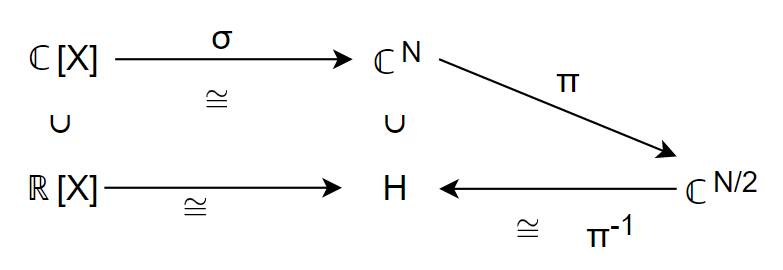
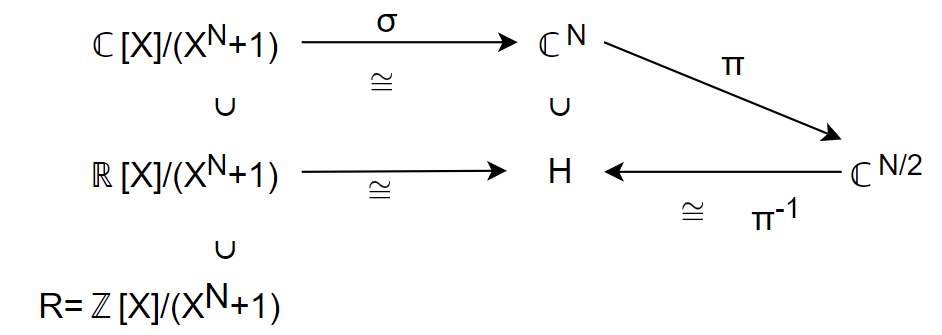
_

diff --git a/articles/ckks-encoding.md b/articles/ckks-encoding.md
@@ -1,15 +1,15 @@
 ---
-title: "完全準同型暗号CKKSその2 エンコーディングとPythonによる実装"
+title: "完全準同型暗号CKKSその2 エンコードとデコード"
 emoji: "🧮"
 type: "tech"
-topics: ["完全準同型暗号", "CKKS", "エンコーディング"]
-published: false
+topics: ["完全準同型暗号", "CKKS", "エンコード", "デコード"]
+published: true
 ---
 ## 初めに
-前回、多項式環とベクトル空間の同型対応を紹介しました。今回はそれを使ってCKKSの平文のエンコーディングと、Pythonによる簡単な実装を紹介します。
+前回、多項式環とベクトル空間の同型対応を紹介しました。今回はそれを使ってCKKSの平文空間、およびエンコード・デコードという処理を紹介します。
 
 ## 前回の復習
-$M$を4以上の2のべきの形の整数、$\xi:=e^{2\pi i/M}$, $N:=M/2$としたとき$σ:ℂ[X]/(X^N+1) \rightarrow  ℂ^N$を$σ(f):=(f(\xi), f(\xi^3), \dots, f(\xi^{2N-1}))$で定義し、それが環同型となっていることを示しました。
+$M$を4以上の2のべきの形の整数、$\xi:=e^{2\pi i/M}$, $N:=M/2$としたとき$σ:ℂ[X]/(X^N+1) \rightarrow  ℂ^N$を$σ(f):=(f(\xi), f(\xi^3), \dots, f(\xi^{2N-1}))$で定義し、それが環同型となっていることを示しました。$ℂ[X]/(X^N+1)$は$N-1$次以下の多項式の集合と同一視しておきます。
 
 ## 複素共役
 複素数$z=a+bi$（$a,b \in ℝ）$に対して、複素共役（きょうやく）を$conj(z):=a-bi$と書きます。複素共役は複素平面の$x$軸に対する線対称の操作です。markdownでチルダ$\tilde{z}$は表記しづらいので$conj$を使います。
@@ -37,51 +37,67 @@ conj(\xi^3)&=\xi^5,\\
 conj(\xi^4)&=\xi^4
 \end{align*}
 $$
-が見て取れます。
+を確認できます。
 
 ## 実数係数多項式環
-$f$が実数係数多項式なら$conj(f(\xi^{2j-1}))=f(conj(\xi^{2j-1}))=f(\xi^{M-2j+1})$です。だから$σ(f)=(f(\xi^{2j-1}))_{j=1,\dots,N}$は$N$次元ベクトルのうち、前半の$N/2$個の成分だけで後半は前半を逆順にして複素共役をとったものです。
+$f$が実数係数多項式なら$conj(f(\xi^{2j-1}))=f(conj(\xi^{2j-1}))=f(\xi^{M-2j+1})$です。だから$σ(f)=(f(\xi^{2j-1}))_{j=1,\dots,N}$は$N$次元ベクトルですが、後半$N/2$個の要素は前半の$N/2$個の要素を逆順にして複素共役をとったものです。つまり情報としては前半の$N/2$個で十分です。
 
 *実係数多項式$f$についての$σ(f)$*
 ![実係係数多項式の像](/images/conj-real-poly.png)
 
-逆に複素数係数多項式$f \in ℂ[X]$について$conj(f(\xi^{2j-1}))=f(\xi^{M-2j+1})$ （※）を満たすと$f \in ℝ[X]$です。
-なぜなら任意の$f \in ℂ[X]$は、ある$g, h \in ℝ[X]$を使って$f(X)=g(X)+ih(X)$と書けます。$t:=2j-1$とすると、
+逆に、一般の複素数係数多項式$f \in ℂ[X]/(X^N+1)$が
+条件(real-cond) : $conj(f(\xi^{2j-1}))=f(\xi^{M-2j+1})$ for $j=1,\dots,N/2$
+を満たすと$f \in ℝ[X]/(X^N+1)$です。
+なぜなら任意の$f(X) \in ℂ[X]/(X^N+1)$は、ある実数係数多項式$g, h \in ℝ[X]/(X^N+1)$を使って$f(X)=g(X)+ih(X)$と書けます。$t:=2j-1$とすると、
 
 $$
 conj(f(\xi^t))=conj(g(\xi^t)+ih(\xi^t))=g(\xi^{M-t})-ih(\xi^{M-t}).
 $$
-ここで仮定（※）より
+ここで条件(real-cond)より
 
 $$
 conj(f(\xi^t))=f(\xi^{M-t})=g(\xi^{M-t})+ih(\xi^{M-t}).
 $$
 
-両者が等しいので$h(\xi^{M-t})=0$。これが$t=1, 3, \dots, 2N-1$について成り立つので$h(X)=0$。これは$f \in ℝ[X]$を意味します。
+両者が等しいので$h(\xi^{M-t})=0.$ 複素共役をとれば$h(\xi^t)=0.$ これが$t=1,3,\dots,N-1$で成り立つので$h(X)=0.$ これは$f \in ℝ[X]/(X^N+1)$を意味します。
 
-そこで、$ℂ[X]$の前半だけを取り出す写像を定義します。
+そこで、$ℂ^N$の前半だけを取り出す写像を定義します。
 
 $$
 π:  ℂ^N \ni (z_1, \dots, z_N) \mapsto (z_1, \dots, z_{N/2}) \in ℂ^{N/2}.
 $$
 
-この逆写像は一意には決まりませんが、前半から、後半を逆順の複素共役で復元する写像
+この逆写像は一意には決まりませんが、前半分から後ろ半分を逆順の複素共役で復元する写像を
 
 $$
-π^{-1}: ℂ^{N/2} \ni (y_1,...,y_{N/2}) \mapsto  (y_1,...,y_{N/2}, conj(y_{N/2}), .., conj(y_1)) \in  ℂ^N
+π^{-1}: ℂ^{N/2} \ni (z_1,...,z_{N/2}) \mapsto  (z_1,...,z_{N/2}, conj(z_{N/2}), .., conj(z_1)) \in  ℂ^N
 $$
 
-と定義します。すると$H:=π^{-1}(ℂ^{N/2}) \subseteq ℂ^N$は実数係数多項式全体$ℝ[X]$の$σ$による像$σ(ℝ[X])$に一致します。関係がややこしくなったので図示すると
+と定義します。すると先程の議論により$σ(ℝ[X]/(X^N+1))$の要素は条件(real-cond)を満たし、逆に条件(real-cond)を満たす$f \in ℂ[X]/(X^N+1)$は$f \in ℝ[X]/(X^N+1)$なので$H:=π^{-1}(ℂ^{N/2}) \subseteq ℂ^N$とすると$σ(ℝ[X])=H$です。
+関係がややこしくなったので図示すると
 
 *$ℂ[X]$と$ℝ[X]$の関係*
 ![CとRの関係](/images/real-poly-in-cn.png)
 
-## CKKSのエンコードと平文空間
+## CKKSの平文空間とエンコード・デコード
 ようやくCKKSの平文空間を定義する準備が出来ました。$R:=ℤ[X]/(X^N+1)$とします。$R$は整数係数多項式を$X^N+1$で割った余りの集合です。$R$がCKKSの平文空間です。
 実はCKKSは厳密な準同型暗号ではなく、近似準同型暗号というもので、暗号化して復号すると元の値から少しずれます。加算や乗算でも誤差がでます。
-暗号化する準備で発生する誤差を制御するための値をスケール因子$Δ$といいます。
-暗号化したい複素$N/2$次元ベクトル$z \in ℂ^{N/2}$をとり、$\pi^{-1}(z) \in H$の中で整数係数に丸めます。$[]$を丸める関数とします。
+暗号化する準備で発生する誤差を制御するための値をスケール因子$Δ$といいます。小数$x$を整数に丸めたものを$[x]$と書き、より一般に多項式$f$の各係数を整数に丸めたものも$[f]$と書くことにします。
+暗号化したい複素$N/2$次元ベクトル$z \in ℂ^{N/2}$をとり、$f:=σ^{-1}(\pi^{-1}(z))$とします。前節の図で右端の要素を左端の空間に持ってきます。
+$f$は実数係数多項式で、それをスケール因子$Δ$倍して係数を整数に丸めたもの$[Δf] \in R$を得る操作をエンコードといいます。
 
 $$
-t:=[\pi^{-1}(z)Δ].
+ecd : ℂ^{N/2} \ni z \mapsto [Δσ^{-1}(\pi^{-1}(z))] \in R=ℤ[X]/(X^N+1).
 $$
+
+逆に平文空間$R$の多項式$f$に対して$\pi(σ(Δ^{-1}f)) \in ℂ^{N/2}$を得る操作をデコードといいます。
+
+$$
+dcd : R=ℤ[X]/(X^N+1)  \ni f \mapsto \pi(σ(Δ^{-1}f)) \in ℂ^{N/2}.
+$$
+
+エンコードとデコードは扱いたい$N/2$次元ベクトルをCKKSの平文空間$R$に移したり、元に戻したりする操作であって、暗号化・復号ではないことに注意してください。
+また、エンコードの際に丸め処理が入っているのでエンコードしてデコードしても完全に元に戻るとは限らないことにも注意してください。スケール因子$Δ$を大きくとれば、その誤差を小さくできます。
+
+## まとめ
+CKKSの平文空間$R=ℤ[X]/(X^N+1)$を定義しました。$ℂ^{N/2}$と実数係数多項式の集合$R=ℤ[X]/(X^N+1)$との関係を調べ、それらの間を行ったり、来たりするエンコードとデコードを定義しました。
